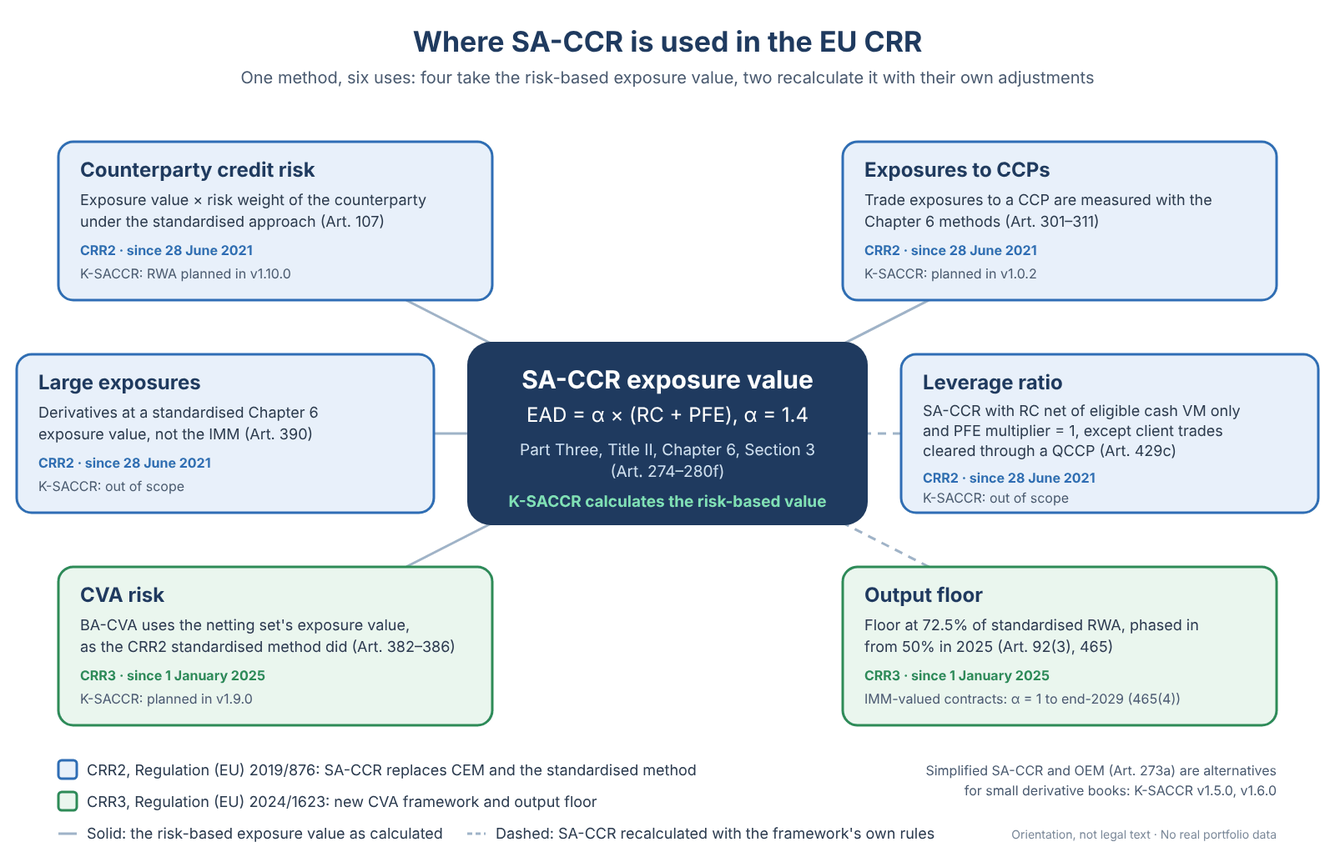
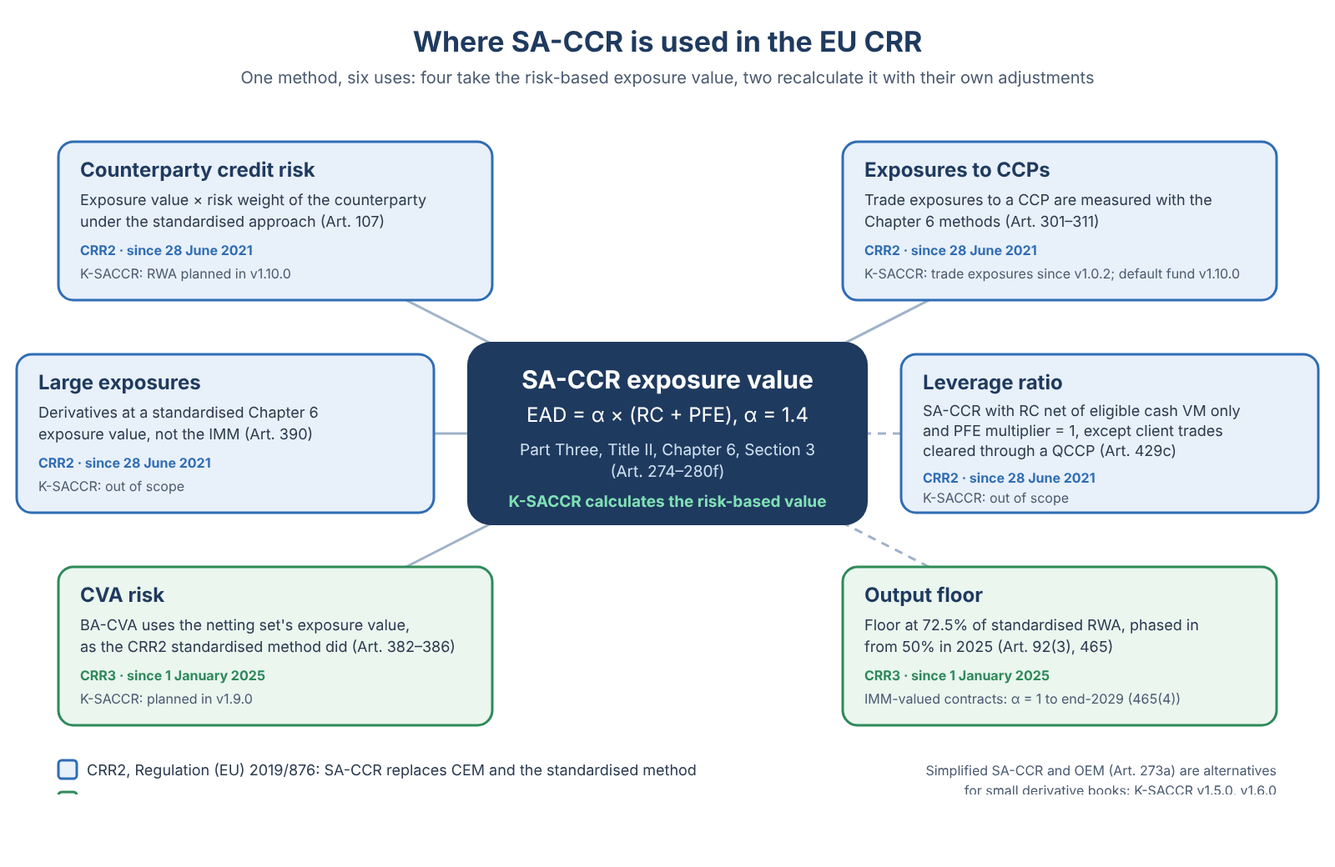
docs: correct inconsistencies found in a repository audit (#433)
Methodology and tests: tests/README lists the 17 expected files without
a catalogue ID and names tests/derivations/ as an origin; TEST_CASES
names the three boundary fixtures, adds the client-clearing fixture to
the regime differences and explains the clearing-member fixture; the
parameter table lists the 10-day CCP MPOR floor, noted as a constant in
CORE_Config rather than a Params entry; the source register says which
CCP articles are applied; the CRR diagram's CCP box says trade exposures
since v1.0.2 and the default fund in v1.10.0, with the PNG re-rendered.

Process and governance: RELEASING names the harness and the seven policy
suites and adds the website update after publication; WEBSITE.md says
when the preview and the page are updated; GOVERNANCE lists every place
that names the active branch; CONTRIBUTING, INSTALLATION and README say
CI also runs Ruff, mypy and actionlint, with Ruff and mypy runnable
locally; REPOSITORY_STRUCTURE states host independence as a goal with
known deviations; SECURITY counts three CSV files; tools/README, the PR
template, the README roadmap and the house-style anchor are corrected.

Validated: python tools/check.py passed; git diff --check clean;
Repository integrity green on 0503ef1. The code review's first-round
findings were fixed; its two second-round findings are recorded in #434.

Changed region(s): [[0.0312, 0.9231, 0.6875, 0.9846], [0.6875, 0.3077, 0.9375, 0.3385], [0.75, 0.9538, 0.9375, 0.9846]]

diff --git a/docs/methodology/README.md b/docs/methodology/README.md
@@ -173,7 +173,7 @@ have been compared for that rule.
 | Single-name credit factor | By credit quality step 1–6 (Art. 280c(5), Table 3) | By rating AAA to CCC (CRE52.72) | Same factors on a different scale: CQS 1 = 0.38%, CQS 2 = 0.42%, CQS 3 = 0.54%, CQS 4 = 1.06%, CQS 5 = 1.6%, CQS 6 = 6.0%; AAA and AA = 0.38%, A = 0.42%, BBB = 0.54%, BB = 1.06%, B = 1.6%, CCC = 6.0% | T28 (illustrative) |
 | Supervisory delta of interest-rate and commodity options | Shifted by the regulatory lambda (`CRR-RTS` Art. 5) | CRE52.40 | Delta differs when a price or strike is near or below zero | T20–T23 (illustrative) |
 | Interest-rate maturity bucket 1 | End date > 0 and <= 1 year (Art. 280a(3), Table 2) | Less than one year (CRE52.57(3)) | An end date of exactly 1 year is in bucket 1 under `CRR` and bucket 2 under `BCBS`; bucket 2 includes exactly 5 years in both (#191) | `TEST_InputValidation` (`ir-bucket-boundaries-crr`, `ir-bucket-boundaries-bcbs`; the add-on effect in `ir-bucket-offset-crr`, `ir-bucket-offset-bcbs`) |
-| MPOR floor of a client facing its clearing member | 5 business days: the client, like the clearing member, replaces the 10-day minimum of Art. 285(2)(b) with five business days (Art. 279c(1)(b)) | 10 business days: if the conditions of CRE54.15 are met, the client takes the clearing member's treatment towards a CCP (CRE54.14), whose minimum MPOR for OTC derivatives is 10 days (CRE54.8(2)); CRE54.16 changes only the risk weight, to 4%, when just the protection against a joint default is missing; if CRE54.14–.16 are not met, the exposure is a bilateral trade (CRE54.17) under CRE52.50. The 5-day floor of CRE54.12 is for the clearing member facing its client | A margined netting set with Client clearing role CLIENT has a lower MPOR, and so a lower maturity factor, under `CRR`; CM takes 5 days in both regimes | `TEST_InputValidation` (`netting-set-clearing-client-crr`, `netting-set-clearing-client-bcbs`; CM in `netting-set-clearing-member-crr`, `netting-set-clearing-member-bcbs`) |
+| MPOR floor of a client facing its clearing member | 5 business days: the client, like the clearing member, replaces the 10-day minimum of Art. 285(2)(b) with five business days (Art. 279c(1)(b)) | 10 business days: if the conditions of CRE54.15 are met, the client takes the clearing member's treatment towards a CCP (CRE54.14), whose minimum MPOR for OTC derivatives is 10 days (CRE54.8(2)); CRE54.16 changes only the risk weight, to 4%, when just the protection against a joint default is missing; if CRE54.14–.16 are not met, the exposure is a bilateral trade (CRE54.17) under CRE52.50. The 5-day floor of CRE54.12 is for the clearing member facing its client | A margined netting set with Client clearing role CLIENT has a lower MPOR, and so a lower maturity factor, under `CRR`; CM takes 5 days in both regimes | Fixture `illustrative-clearing-client-listed` (MPOR 9 under `CRR`, 14 under `BCBS`); `TEST_InputValidation` (`netting-set-clearing-client-crr`, `netting-set-clearing-client-bcbs`; CM in `netting-set-clearing-member-crr`, `netting-set-clearing-member-bcbs`) |
 | Variation margin posted under a one-way margin agreement (the bank posts, the counterparty does not) | A one-way margin agreement is a margin agreement (Art. 272(7), (7a)), so the netting set is margined (Art. 275(2)); entered as unmargined with VM posted, it is rejected | The netting set is unmargined (CRE52.2) and C includes the posted VM with a negative sign (CRE52.10, footnote 2) | An unmargined netting set with posted VM is `INVALID` under `CRR` and `VALID` under `BCBS`, where the posted VM raises RC | `TEST_InputValidation` (`netting-set-unmargined-vm-posted-crr`, `netting-set-unmargined-vm-posted-bcbs`) |
 
 The cap of a margined netting set is not recorded as a difference. Both texts
@@ -191,8 +191,9 @@ engine's cap uses NICA in both regimes (#39).
 
 Values checked on 2026-10-09 against the consolidated CRR of 26.06.2026,
 `CRR-RTS` Article 5 and the CRE52.72 table; each matches the template's Params
-sheet. Rows marked `CRR` are as printed in the CRR; rows marked `BCBS` are the
-CRE52.72 values, which equal the CRR values wherever both texts give one.
+sheet, except the CCP MPOR floor, a constant in `CORE_Config`. Rows marked
+`CRR` are as printed in the CRR; rows marked `BCBS` are the CRE52.72 values,
+which equal the CRR values wherever both texts give one.
 
 | Parameter | Value | Regime | Source locator | Used by |
 | --- | --- | --- | --- | --- |
@@ -205,6 +206,7 @@ CRE52.72 values, which equal the CRR values wherever both texts give one.
 | Maturity factor, margined | 3/2 x sqrt(MPOR / OneBusinessYear) | CRR | Art. 279c(1)(b) | `SACCR_MaturityFactor` |
 | MPOR floor | 10 business days; 5 for transactions between a client and a clearing member | CRR | Art. 285(2)(b); Art. 279c(1)(b) | `MPORFloorBilateral`, `MPORFloorCleared` |
 | MPOR floor, over 5 000 trades or illiquid collateral or a hard-to-replace OTC derivative | 20 business days | CRR | Art. 285(3) | `MPORFloorLarge` |
+| MPOR floor of a clearing member's trade exposure to a CCP | 10 business days | CRR | `CRR-CCP` Art. 304(3)(b); CRE54.8(2) | Constant `MPOR_CCP_BD` in `CORE_Config` |
 | MPOR with margin disputes | at least double | CRR | Art. 285(4) | `CORE_Engine.LoadNettingSets` |
 | MPOR with remargining every N days | F + N - 1 | CRR | Art. 285(5) | `CORE_Engine.LoadNettingSets` |
 | Hedging-set coefficient | 1; 5 for volatility; 0.5 for basis | CRR | Art. 280 | `VolatilityFactor`, `BasisFactor` |

diff --git a/RELEASING.md b/RELEASING.md
@@ -21,7 +21,7 @@ in [`CONTRIBUTING.md`](CONTRIBUTING.md); version and changelog format are in
 | Active branch | See [`docs/GOVERNANCE.md`](docs/GOVERNANCE.md#branches) |
 | Version file | `VERSION`, holding `1.0.2` ([versioning](#versioning)) |
 | Release evidence tooling | Static checks (`tools/check.py`) and the Excel evidence validator (`tools/check_excel_evidence.py`) |
-| Excel certification | All eight suites listed in `.github/excel-evidence-policy.json`, recorded and validated as described in [`docs/EXCEL_EVIDENCE.md`](docs/EXCEL_EVIDENCE.md) |
+| Excel certification | The harness and the seven suites listed in `.github/excel-evidence-policy.json`, recorded and validated as described in [`docs/EXCEL_EVIDENCE.md`](docs/EXCEL_EVIDENCE.md) |
 
 
 <a id="versioning"></a>
@@ -52,7 +52,7 @@ A release is valid only when:
 2. the changelog entry for the version is dated and matches the scope;
 3. `python tools/check.py --ci` passes on that candidate, and the hosted
    **Repository integrity** check is green;
-4. VBA compiles and all eight suites listed in
+4. VBA compiles and the harness and the seven suites listed in
    `.github/excel-evidence-policy.json` pass in Excel on that candidate,
    recorded and validated as described in
    [`docs/EXCEL_EVIDENCE.md`](docs/EXCEL_EVIDENCE.md);
@@ -108,9 +108,9 @@ Confirm the hosted **Repository integrity** check is green on the same SHA.
 
 ### 5. Certify in Excel
 
-Import the exact candidate into a clean workbook, compile, and run all eight
-suites listed in `.github/excel-evidence-policy.json`, each on its own,
-following the [manual procedure](docs/EXCEL_EVIDENCE.md#manual-procedure).
+Import the exact candidate into a clean workbook, compile, and run the harness
+and the seven suites listed in `.github/excel-evidence-policy.json`, each on
+its own, following the [manual procedure](docs/EXCEL_EVIDENCE.md#manual-procedure).
 Validate the bundle against the candidate SHA:
 
 ```sh
@@ -140,7 +140,7 @@ Check the **development** workbook certified in step 5 the same way: export
 it and run the source round trip in development mode against the candidate
 SHA. It is not published, but its round trip shows that the suites ran on
 exactly the candidate's code, test modules included, among them
-`TEST_Benchmark`, which the eight-suite policy does not run. The comparison
+`TEST_Benchmark`, which the evidence policy does not run. The comparison
 takes the expected components from `tools/vba-projects.json` at the
 candidate. Only `RESULT=PASS` with `binding=VERIFIED` qualifies it.
 
@@ -194,6 +194,12 @@ from the release page:
 5. Close without saving, and record what was done and seen with the release
    evidence.
 
+Once the release assets exist, update the website as
+[`docs/WEBSITE.md`](docs/WEBSITE.md#maintenance-and-checks) describes: the
+release named on the page, the download buttons and the `SHA256SUMS.txt` link.
+The change goes through a task PR into the active release branch and reaches
+`main` with the next integration.
+
 ## 🧾 Evidence record
 
 Retain at least: candidate SHA, previous tag, static-check result, Excel
@@ -223,7 +229,8 @@ it does not replace it.
 | 4 | Release branch merged into `main` with a merge commit, and level with `main` again | ☐ |
 | 5 | Candidate frozen: the merge commit's SHA, diff reviewed | ☐ |
 | 6 | Static checks pass locally and in CI on the candidate | ☐ |
-| 7 | Excel certification passes for all eight suites on the candidate | ☐ |
+| 7 | Excel certification passes for the harness and the seven policy suites on the candidate | ☐ |
 | 8 | Artifacts built from the candidate, tested and hashed; production and development round trips `PASS` with `binding=VERIFIED` | ☐ |
 | 9 | Annotated tag targets the candidate | ☐ |
 | 10 | GitHub Release published and verified, and its workbook used as a user would | ☐ |
+| 11 | Website updated to the published release | ☐ |

diff --git a/tools/README.md b/tools/README.md
@@ -21,7 +21,7 @@ pull request's whole range.
 | `check_committed_whitespace` | `git diff --check` on staged and unstaged changes (local) or on the committed range (`--ci`) |
 | `check_vba_jumps` | Every `GoTo`, `GoSub`, `Resume` and `On Error GoTo` target is a label in the same procedure |
 | `check_vba_conditionals` | `#If`/`#ElseIf`/`#Else`/`#End If` are balanced and use only `VBA6`, `VBA7`, `Win32`, `Win64`; `Declare` in reachable 64-bit branches is `PtrSafe`; no `#Const` |
-| `check_test_cases` | Every fixture and expected file under `tests/` follows `docs/methodology/TEST_CASES.md`: envelope, declared fields with their types and units, quantity names and forms, trade references, tolerances, reference classes with their required fields and registered sources, the `illustrative-` naming rule and unique catalogue IDs; a registered EBA Q&A is cited by its source ID (such as `EBA-QA-2023_6962`), not in prose (`EBA Q&A 2023_6962` or `EBA Single Rulebook Q&A 2023_6962`), in the expected files, the VBA source and the methodology; only the source register's row that defines the ID may use the full name. It does not run any case |
+| `check_test_cases` | Every fixture and expected file under `tests/` follows `docs/methodology/TEST_CASES.md`: envelope, declared fields with their types and units, quantity names and forms, trade references, tolerances, reference classes with their required fields and registered sources, the `illustrative-` naming rule and unique catalogue IDs; settlement, reset and CCP inputs that the engine rejects are declared in every expected file of the fixture (`trade_status` `EXCLUDED` for a trade, a `netting_set_status` starting with `INVALID` for the netting set); a registered EBA Q&A is cited by its source ID (such as `EBA-QA-2023_6962`), not in prose (`EBA Q&A 2023_6962` or `EBA Single Rulebook Q&A 2023_6962`), in the expected files, the VBA source and the methodology; only the source register's row that defines the ID may use the full name. It does not run any case |
 | `check_vba_public_api` | Every `Public` declaration in `src/modules/` is listed, with its exact signature, in `docs/PUBLIC_API.txt`, and nothing else is; no implicit public procedures; one identifier per public `Const` or variable; no name collisions |
 | `excel-evidence-policy` | `.github/excel-evidence-policy.json` matches the test modules: the harness's case and assertion counts, each suite's case and check counts (`EXPECTED_CASES`, `EXPECTED_CHECKS`, `CASES`, `CHECKS` or `BeginSuite`; a check count under `#If Win64` is the 64-bit one and under its `#Else` the 32-bit one; a module without a check count is held by its evidence log only), header and `MODE` line, a case-runner suite's first case (the first `BeginCase` or `StartCase` in its module), and the suites `TEST_Suite.Test_RunAll` runs, with `SUITE_COUNT`; and the root `README.md` shows the same suites and 64-bit counts in its Excel suites and Regression badges, the Testing capability, the suite table with its total, and the `Test_RunAll` output |
 | `generated-case-tests` | `tests/modules/TEST_Cases.bas` is exactly what `tools/generate_case_tests.py` generates from the current fixtures and expected files |
@@ -48,7 +48,7 @@ document modules, which Excel writes. Its tests run in `tool-tests`, without
 Excel.
 
 `rsaccr_crosscheck.py` and `rsaccr_run.R` are not gates: they compare the
-expected values in `tests/expected` with an independent implementation, the
+expected values in `tests/expected` with an external implementation, the
 CRAN package `SACCR` 3.4 with `Trading` 3.2 (#352). The Python script
 translates each fixture into the package's trades, CSA and collateral, one
 counterparty per netting set, with times in years on the fixture's DaysPerYear;

diff --git a/docs/methodology/TEST_CASES.md b/docs/methodology/TEST_CASES.md
@@ -299,9 +299,11 @@ Each fixture declares one `category`:
 - Each implemented rule also needs at least one boundary case, and each public
   input domain at least one invalid case. Such a case is a fixture or a case
   of a VBA test suite, mostly `TEST_InputValidation`, which also covers inputs
-  JSON cannot express. There are no fixtures of category `boundary`: the
-  boundary cases are suite cases, such as `ir-bucket-boundaries-crr` and
-  `ir-bucket-boundaries-bcbs`. No tool checks that every rule has one; the
+  JSON cannot express. Three fixtures have category `boundary`:
+  `illustrative-ccp-non-qualifying`, `illustrative-ccp-retained-vm` and
+  `illustrative-settled-to-market-daily`; the other boundary cases are suite
+  cases, such as `ir-bucket-boundaries-crr` and `ir-bucket-boundaries-bcbs`.
+  No tool checks that every rule has one; the
   [traceability](README.md#traceability) table lists the cases of each rule.
 - Every recorded regime difference has a case that shows it, as a fixture or
   a suite case. The table below lists them; where only one regime has a case,
@@ -326,13 +328,16 @@ Where each [regime difference](README.md#regime-differences) is covered:
 | Single-name credit factor | Fixture `illustrative-credit-quality-step`, `CRR` only (T28) |
 | Supervisory delta of interest-rate and commodity options | Fixture `illustrative-negative-ir-forward`, both regimes (T20–T22); fixture `illustrative-negative-commodity-price`, `CRR` only (T23) |
 | Interest-rate maturity bucket 1 | `TEST_InputValidation` cases `ir-bucket-boundaries-crr`, `ir-bucket-boundaries-bcbs`, `ir-bucket-offset-crr` and `ir-bucket-offset-bcbs` |
-| MPOR floor of a client facing its clearing member | `TEST_InputValidation` cases `netting-set-clearing-client-crr` and `netting-set-clearing-client-bcbs` |
+| MPOR floor of a client facing its clearing member | Fixture `illustrative-clearing-client-listed`, both regimes (MPOR 9 under `CRR`, 14 under `BCBS`); `TEST_InputValidation` cases `netting-set-clearing-client-crr` and `netting-set-clearing-client-bcbs` |
 | Variation margin posted under a one-way margin agreement | `TEST_InputValidation` cases `netting-set-unmargined-vm-posted-crr` and `netting-set-unmargined-vm-posted-bcbs` |
 
 The fixture `illustrative-posted-vm-cap` has category `regime`, but the cap of
 a margined netting set that it tests is not a regime difference: both regimes
 give the same capped EAD (T16, T17), as the note under
-[Regime differences](README.md#regime-differences) explains.
+[Regime differences](README.md#regime-differences) explains. Likewise, the
+fixture `illustrative-clearing-member-listed` has category `regime` but gives
+the same outputs in both regimes: a clearing member's MPOR of 5 business days
+is the same under both.
 
 <a id="consumption"></a>
 

diff --git a/tests/README.md b/tests/README.md
@@ -89,12 +89,16 @@ fixture with an expected file per regime. T22 and T26 read trades `NIR-B` and
 | T27 | `illustrative-climatic-commodity.crr` | `hedging_set` (CL-1) | `CO\|CLIMATIC\|STD` | illustrative |
 | T28 | `illustrative-credit-quality-step.crr` | `supervisory_factor` (B03) | 0.0042 | illustrative |
 
-The expected files with no catalogue ID, `illustrative-ir-sum-of-absolutes.bcbs`,
-`illustrative-ir-swap-unmargined.bcbs`, `illustrative-ir-swap-unmargined.crr`
-and `illustrative-partly-rejected.crr`, are additional illustrative cases.
-They do not come from the catalogue: each expected file records its own
-derivation, a hand calculation, a format example or the engine behaviour it
-checks.
+The 17 expected files with no catalogue ID are additional illustrative cases
+that do not come from the catalogue; each records its own derivation:
+
+- `illustrative-ir-sum-of-absolutes.bcbs`, `illustrative-ir-swap-unmargined.bcbs`,
+  `illustrative-ir-swap-unmargined.crr` and `illustrative-partly-rejected.crr`:
+  a hand calculation, a format example or the engine behaviour it checks;
+- the five CCP files `illustrative-ccp-*`, the four client-clearing files
+  `illustrative-clearing-*` and the four settled-to-market files
+  `illustrative-settled-to-market-*`: the scripts in
+  [`derivations/`](derivations/), which share no code with the engine.
 
 `published` values are printed in the Basel Framework chapter CRE99 (and BCBS
 279 Annex 4a), rounded to the printed digit, and were checked against the text
@@ -102,8 +106,8 @@ on 2026-10-09. T02 is printed as -0.2694; the prototype catalogue had -0.27,
 and the workbook's TestCatalogue sheet now uses -0.2694 (#267). Example 3
 prints a residual maturity of 9 months for trade 1, so its case runs with
 `DaysPerYear` 360 and 270 days to give exactly 0.75 years. `illustrative`
-values came from a Python implementation that is not in the repository or from
-hand calculations, and stay illustrative unless an external implementation
+values came from a Python implementation that is not in the repository, from
+hand calculations or from the scripts in `derivations/`, and stay illustrative unless an external implementation
 registered as a source reproduces them (#100). The values and tolerances of
 T15 to T28 are the catalogue's, except T16, revised in #39 (#130) to the cap
 with C = NICA only.

diff --git a/README.md b/README.md
@@ -560,7 +560,7 @@ Excel; on 32-bit, `TEST_Formulas` skips two `LongLong` checks (80).
 </details>
 
 `python tools/check.py` runs the [static gates](tools/README.md) locally and
-in CI. Static checks never stand in for Excel evidence; the
+in CI, where Ruff, mypy and actionlint run as well. Static checks never stand in for Excel evidence; the
 [Excel evidence record](docs/EXCEL_EVIDENCE.md) defines what a run must show,
 suite by suite, and `tools/check_excel_evidence.py` validates a record against
 the exact commit it claims.
@@ -667,8 +667,8 @@ and risk-weighted assets.
 | v1.0.1 | Post-release hardening: evidence export that keeps the previous file until the new one is written (#312), export bound to its workbook (#313), Results status `EDITED` (#315), troubleshooting (#317), reconciliation error kept (#318), Other Risks in the benchmark (#309), package checks as standing release steps (#308) |
 | v1.0.2 | Clearing coverage and CCP completeness: coverage matrix and regulatory contract (#358), listed futures and options across client-clearing roles (#359), settlement and reset inputs (#360), CCP trade exposures (#112), reconciliation evidence and published perimeter (#361) |
 | v1.1.0 | CSV import and staging for Trades and NettingSets (#206–#211), workbook protection against accidental edits (#420–#422), and integration/release evidence (#212) |
-| v1.2.0 | Excel Ribbon interface (#213–#218), Home landing page (#330) and worksheet navigation sidebar (#329) |
-| v1.3.0 | Diagnostics and independent validation: engine separated from Excel I/O (#220), stable Checks codes (#81), independent cross-check (#100, #352), randomised FormulaTest inputs (#165) |
+| v1.2.0 | Excel Ribbon interface (#213–#218), Home landing page (#330), worksheet navigation sidebar (#329) and a Restore Parameter Defaults command (#357) |
+| v1.3.0 | Diagnostics and independent validation: engine separated from Excel I/O (#220), stable Checks codes (#81), independent cross-check (#100, #352), randomised FormulaTest inputs (#165), formatted run report next to the CSV evidence (#259) |
 | v1.4.0 | Advanced products and FX provenance: digital options (#120), FX quote import (#157), TARGET holiday calendar (#328) |
 | v1.5.0 | Simplified SA-CCR (#107) |
 | v1.6.0 | Original exposure method (#111) |

diff --git a/docs/REPOSITORY_STRUCTURE.md b/docs/REPOSITORY_STRUCTURE.md
@@ -25,14 +25,15 @@ issue #3.
 | Lifecycle | The workbook is the deliverable; it is built from the exported source in this repository. |
 | Supported environments | Excel for Windows; see [supported hosts](../INSTALLATION.md#supported-hosts). |
 
-**Why not `library`:** the milestone plan defers business UI and production
-workbook packaging to later milestones, so the end product is a workbook, not
-only callable functions. Choosing `library` now would force a profile change
-later.
+**Why not `library`:** the end product is a workbook, with its business UI and
+production packaging, not only callable functions. Choosing `library` would
+have forced a profile change later.
 
-**What stays library-like:** the calculation core is host-independent. It never
-touches workbook objects, so the engine remains testable without a workbook and
-reusable if a library deliverable is ever wanted.
+**What stays library-like:** the calculation core is meant to be
+host-independent, never touching workbook objects, so that the engine can be
+tested without a workbook and reused if a library deliverable is ever wanted.
+The engine imported from the prototype does not meet this yet: see
+[Known deviations](#known-deviations) and #220.
 
 `.github/label-policy.json` already selects the `application` profile for the
 label catalogue; this document makes it the architecture decision as well.

diff --git a/.github/PULL_REQUEST_TEMPLATE.md b/.github/PULL_REQUEST_TEMPLATE.md
@@ -43,7 +43,7 @@ checks skipped and why. -->
 - [ ] The PR targets the active release branch and links its issue, which has an assignee, exactly one priority label and a milestone.
 - [ ] Scope is focused; the diff contains no unrelated formatting, local artifacts or generated output.
 - [ ] Calculation, public API and compatibility impact are stated; a calculation change cites its source.
-- [ ] VBA changes were compiled and tested in Excel on the head SHA, or on an earlier head when later updates changed nothing in `src/`, `tests/modules/` or the template (CONTRIBUTING step 7); otherwise they are stated as not yet verified.
+- [ ] VBA changes were compiled and tested in Excel on the head SHA, or on an earlier head when later updates changed nothing in `src/`, `tests/modules/` or the template (CONTRIBUTING step 7); otherwise they are stated as not yet verified, and the PR is not merged until they are.
 - [ ] Expected values that count as validation are `published` or `independent`, never produced by running this code.
 - [ ] Changed or added suites update `.github/excel-evidence-policy.json` and the README counts together.
 - [ ] Excel state changed by a procedure is restored on success and failure.

diff --git a/CHANGELOG.md b/CHANGELOG.md
@@ -106,6 +106,16 @@ Use only the categories needed by a release.
 
 ### Documentation
 
+- Correct inconsistencies found in a repository audit: the expected files
+  without a catalogue ID and their origins in `tests/README.md`, the boundary
+  fixtures and the clearing fixtures among the regime differences, the CCP
+  articles K-SACCR applies, the 10-day CCP MPOR floor in the parameter table,
+  the CCP label of the CRR diagram, the core's host independence as a goal
+  with known deviations, the number of CSV files `TEST_Reconcile` writes, the
+  harness and seven policy suites of the release certification, the website
+  update after publication, every place that names the active branch, the CI
+  steps beyond `check.py`, the `check_test_cases` rules, the roadmap rows of
+  v1.2.0 and v1.3.0, and a broken link in the VBA house style.
 - Describe measurements, screenshots, sources and test derivations without
   referring to the author in the third person: descriptive text no longer
   names "the owner" or "the maintainer", and the expected-value notes of the

diff --git a/docs/methodology/sources/README.md b/docs/methodology/sources/README.md
@@ -52,8 +52,11 @@ the simplified methods), 281 (simplified SA-CCR) and 282 (original exposure
 method) are in the extract as context only; K-SACCR does not implement them.
 The second extract holds the definitions of Article 4(1)(88)–(91) and Section 9
 on exposures to central counterparties, which the
-[clearing coverage](../CLEARING_COVERAGE.md) relies on; K-SACCR calculates
-nothing from them yet. The consolidated text itself has no legal effect, as its
+[clearing coverage](../CLEARING_COVERAGE.md) relies on. K-SACCR applies
+Article 304(3)(b) and (d), the 10-day MPOR floor and the retained variation
+margin of a clearing member's trade exposure to a CCP, and Article 305(4), which
+rejects a multi-level client structure; it states the risk weight of Article
+306(1) without applying it. The consolidated text itself has no legal effect, as its
 first page states.
 
 BCBS 279 (2014) is the original SA-CCR standard, now part of the consolidated

diff --git a/INSTALLATION.md b/INSTALLATION.md
@@ -151,6 +151,8 @@ holds the demonstration portfolio of the template.
 To run the test suites, build a **development** workbook from source instead,
 as below; the tests write to the input and output sheets.
 
+<a id="get-the-source"></a>
+
 ## 📥 Get the source
 
 Use a **Git clone**:
@@ -195,6 +197,9 @@ python tools/check.py --ci --base <base-sha>   # for a pull request's full range
 ```
 
 Optional label-catalogue checks are in [`docs/GOVERNANCE.md`](docs/GOVERNANCE.md#labels).
+The **Repository integrity** job in CI also runs Ruff, mypy and actionlint,
+which `check.py` does not; [GitHub Actions](tools/README.md#github-actions)
+shows how to run Ruff and mypy locally.
 
 The gates are described in [`tools/README.md`](tools/README.md). They are static
 checks: they never compile VBA or run Excel.

diff --git a/CONTRIBUTING.md b/CONTRIBUTING.md
@@ -33,7 +33,9 @@ label, milestone) is described in
 3. Reproduce the current behavior, then make the smallest coherent change;
    avoid unrelated formatting, generated output or opportunistic refactoring.
 4. Run `python tools/check.py` before every push; all gates must pass. The
-   gates are described in [`tools/README.md`](tools/README.md).
+   gates are described in [`tools/README.md`](tools/README.md). CI also runs
+   Ruff, mypy and actionlint; when you change `tools/`, run Ruff and mypy
+   locally as [GitHub Actions](tools/README.md#github-actions) describes.
 5. Update the affected documentation and add a user-facing entry under
    `## [Unreleased]` in [`CHANGELOG.md`](CHANGELOG.md).
 6. Open a pull request **against the active release branch** using
